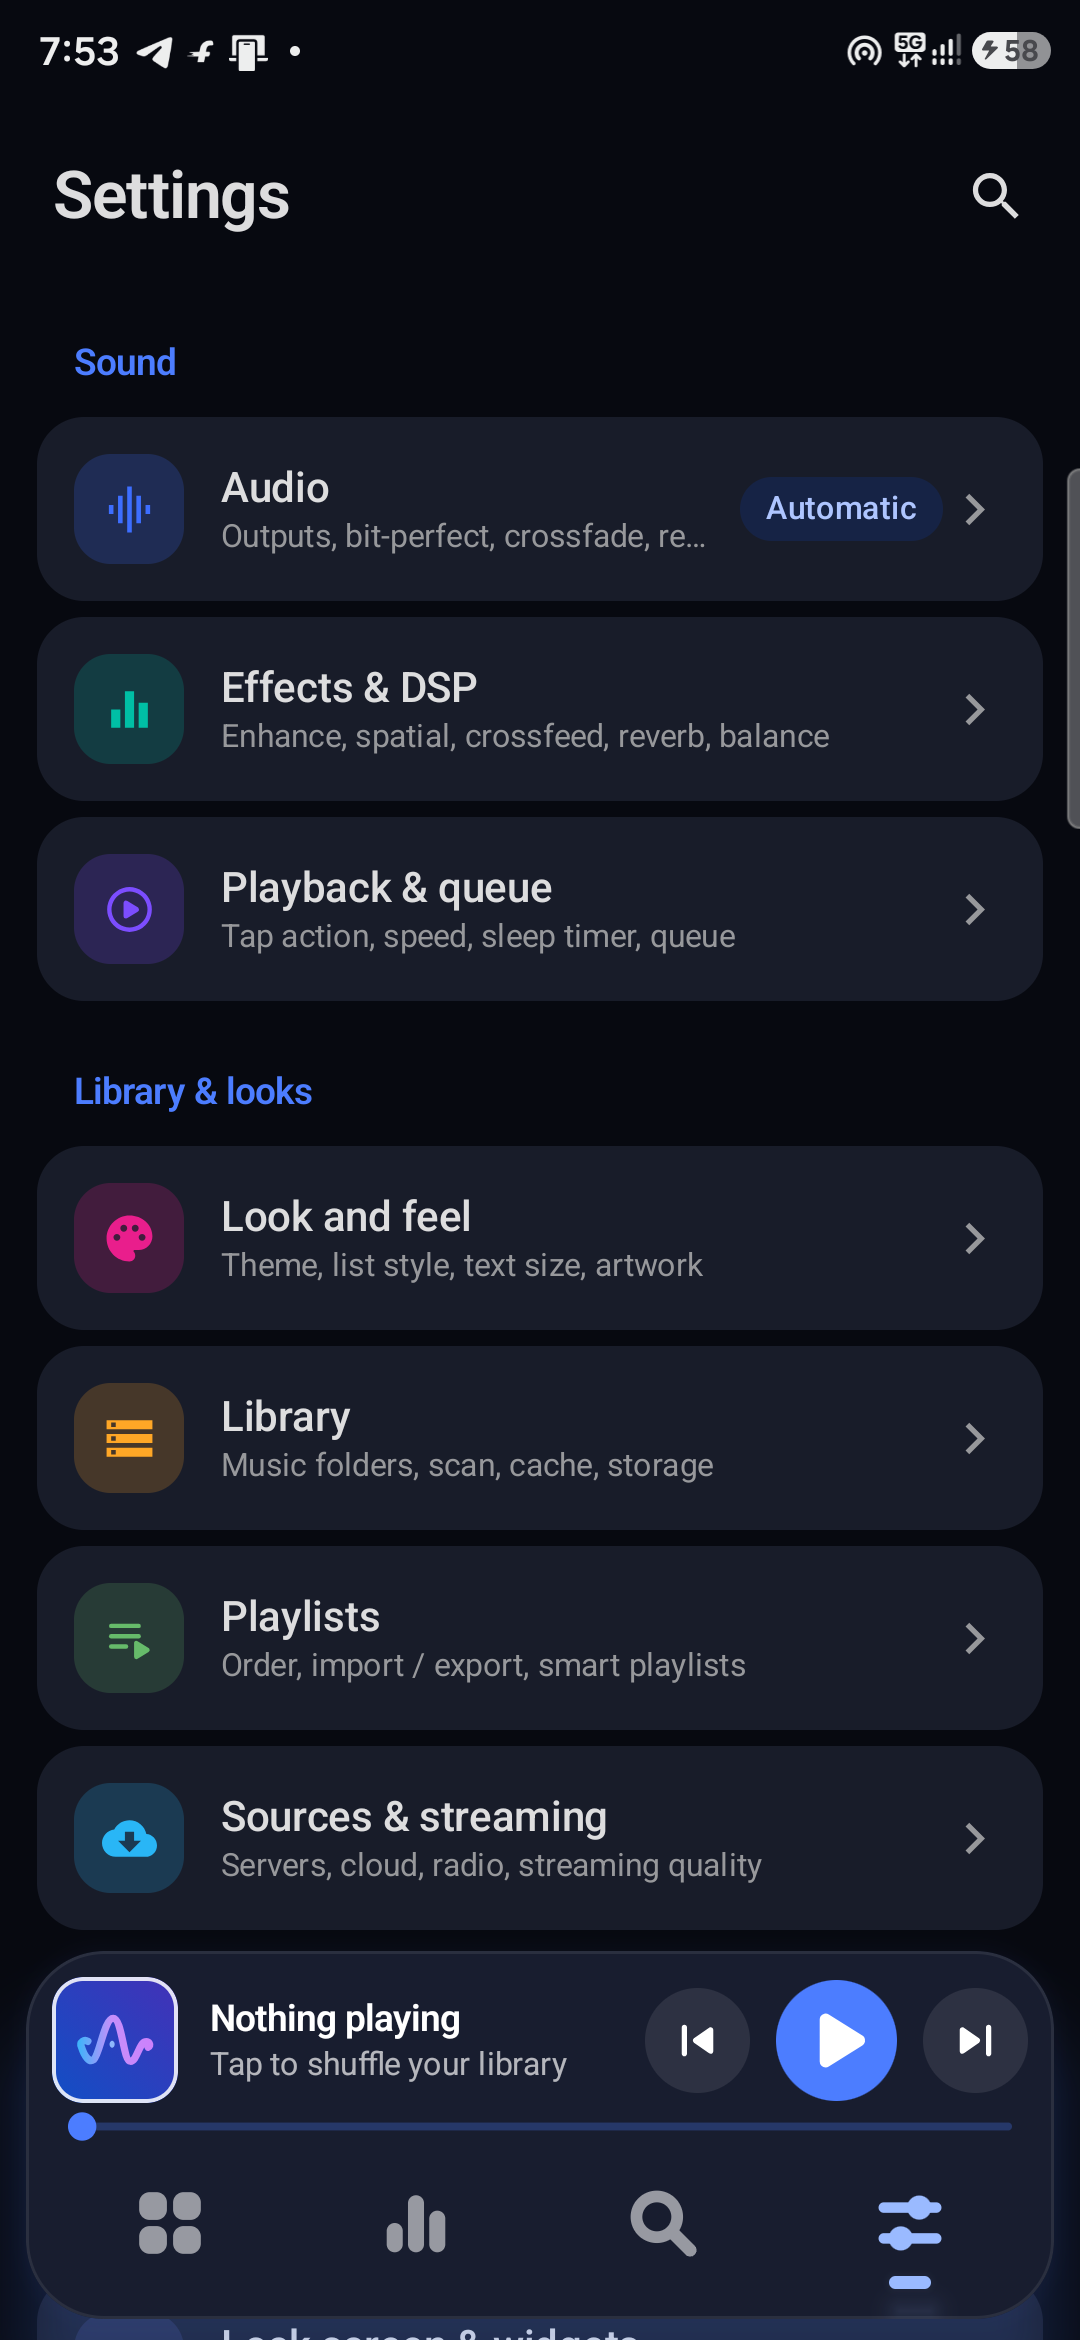
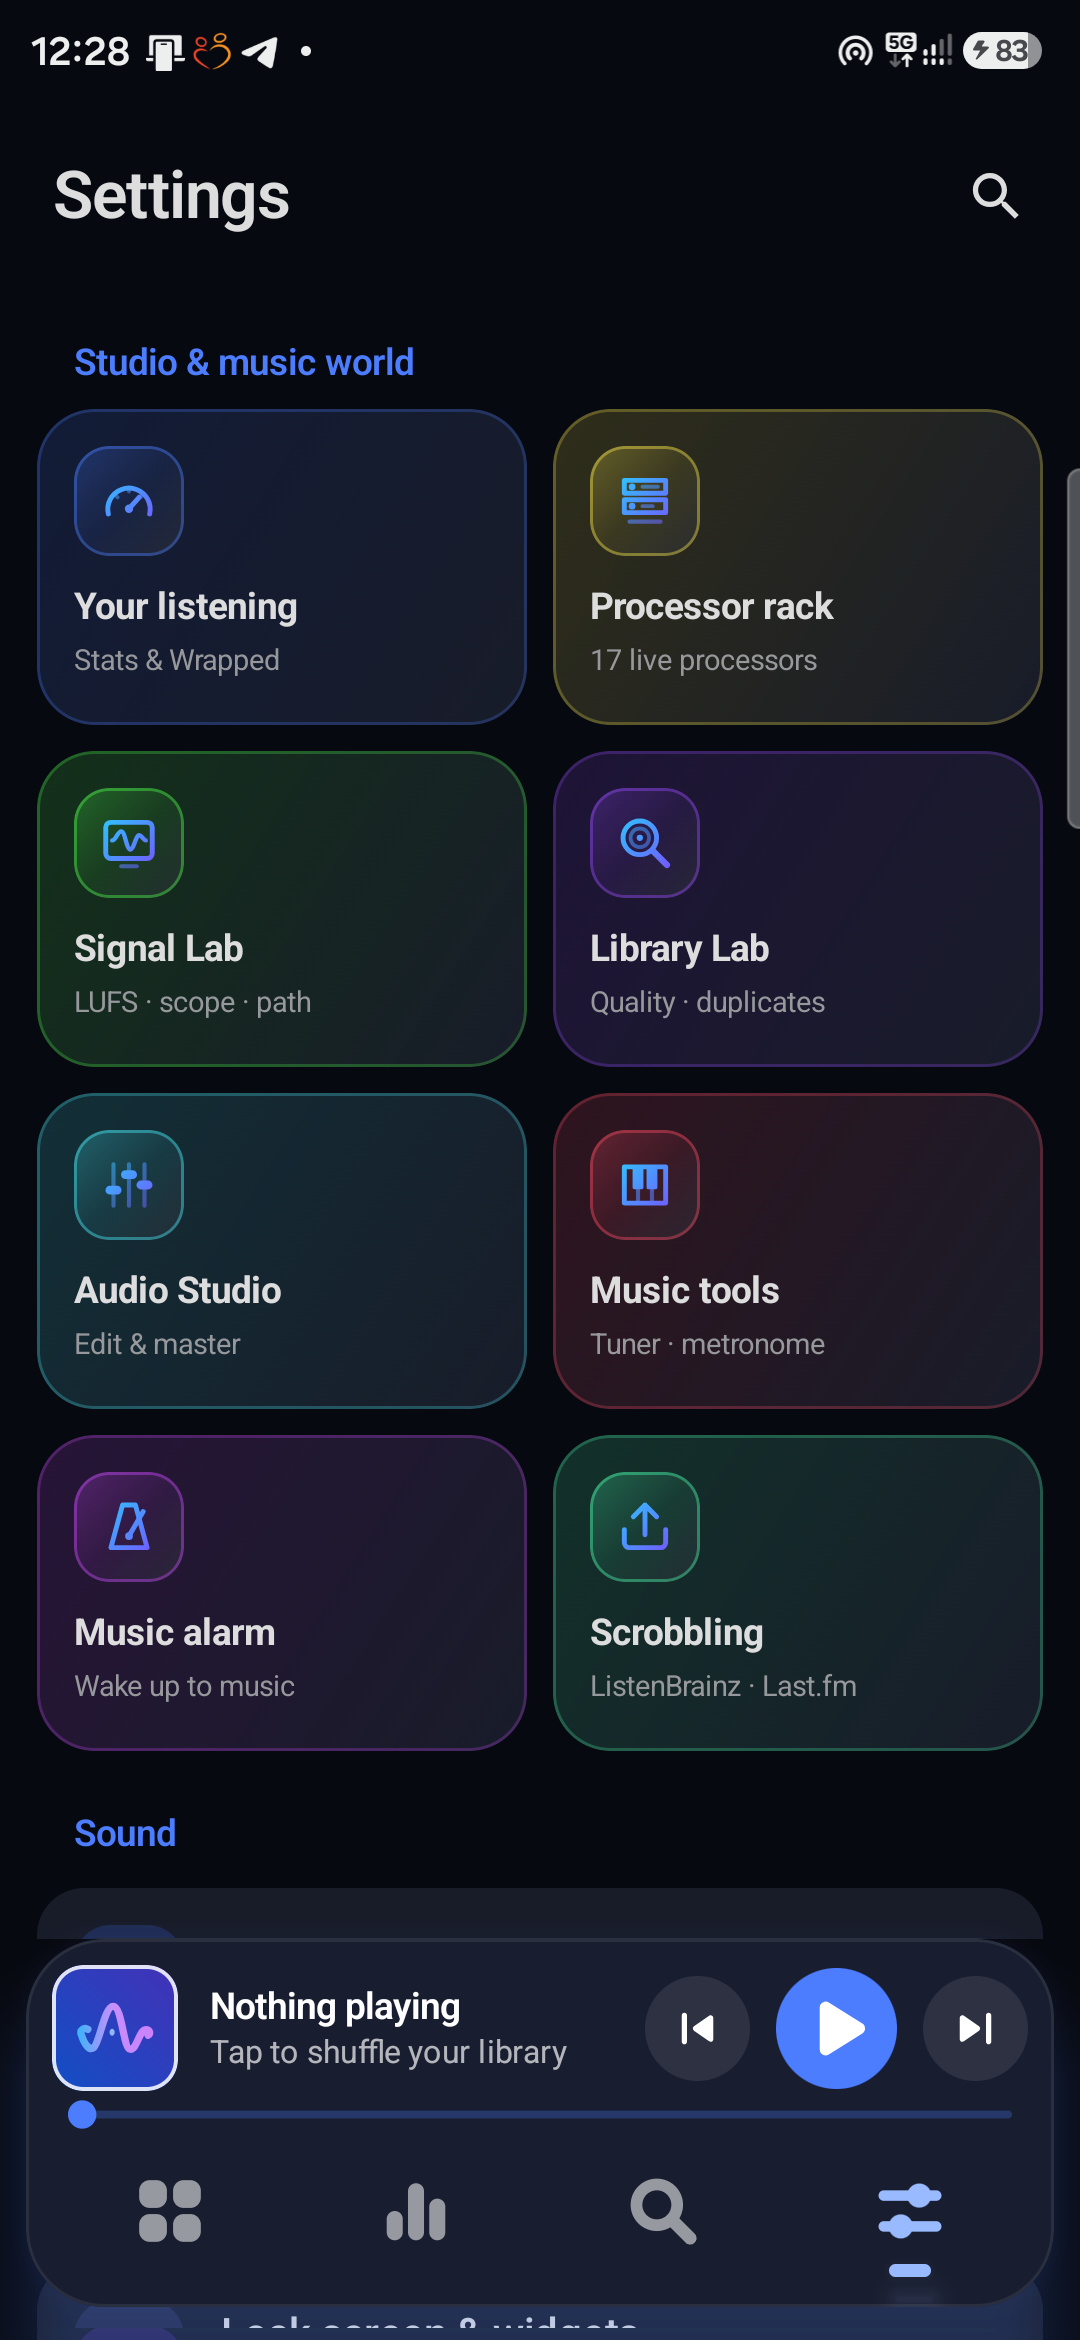
Settings screenshot and caption for 1.0.2 (Studio & music world)

Changed region(s): [[0.0306, 0.1248, 0.9778, 1.0], [0.0306, 0.0, 0.275, 0.0312], [0.7639, 0.0, 0.9778, 0.0312]]

diff --git a/index.html b/index.html
@@ -169,7 +169,7 @@
   <figure><img src="screenshots/01-welcome.webp" alt="Hifinis welcome screen with light, dark and colour choices" loading="lazy" width="540" height="1170"><figcaption>Make it yours in two taps</figcaption></figure>
   <figure><img src="screenshots/02-home.webp" alt="Hifinis first-run home screen" loading="lazy" width="540" height="1170"><figcaption>Only the folders you pick</figcaption></figure>
   <figure><img src="screenshots/07-nowplaying.webp" alt="Hifinis Now Playing: 96 kHz WAV, Hi-Res badge, Android output" loading="lazy" width="540" height="1170"><figcaption>Now Playing · Hi-Res</figcaption></figure>
-  <figure><img src="screenshots/04-settings.webp" alt="Hifinis settings" loading="lazy" width="540" height="1170"><figcaption>Every setting, clearly grouped</figcaption></figure>
+  <figure><img src="screenshots/04-settings.webp" alt="Hifinis settings: Studio and music world — listening stats, processor rack, Signal Lab, Library Lab, Audio Studio, music tools, alarm, scrobbling" loading="lazy" width="540" height="1170"><figcaption>Studio &amp; music world, one tap away</figcaption></figure>
   <figure><img src="screenshots/03-eq.webp" alt="Hifinis 10-band equalizer with the Harman Target preset" loading="lazy" width="540" height="1170"><figcaption>Graphic EQ · 120 presets</figcaption></figure>
   <figure><img src="screenshots/05-effects.webp" alt="Hifinis pre-amp, bass boost, 3D surround, Enhance and Crossfeed" loading="lazy" width="540" height="1170"><figcaption>Tone &amp; effects</figcaption></figure>
   <figure><img src="screenshots/06-parametric.webp" alt="Hifinis parametric EQ with drag-the-curve filters" loading="lazy" width="540" height="1170"><figcaption>Parametric EQ · up to 31 filters</figcaption></figure>
